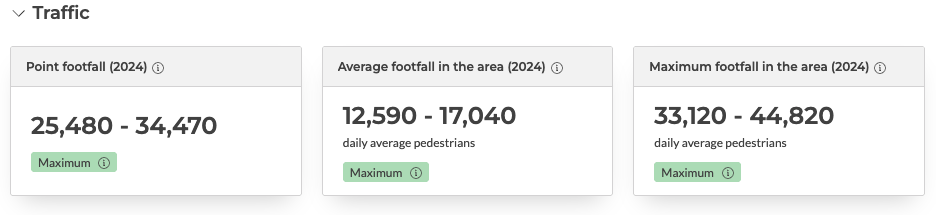
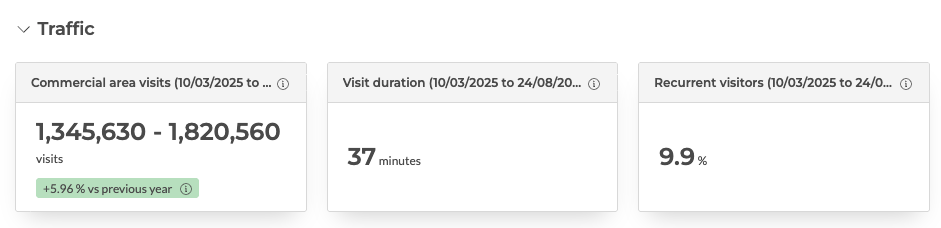
Add files via upload

diff --git a/lvmh_mock_up.html b/lvmh_mock_up.html
@@ -277,14 +277,14 @@
                             </div>
                             <div class="dropdown">
                                 <button class="dropdown-trigger" id="locationDropdown">
-                                    <span id="selectedLocation">El Corte Ingles Barcelona</span>
+                                    <span id="selectedLocation">El Corte Ingles Barcelona (address)</span>
                                     <svg width="15" height="15" viewBox="0 0 15 15" fill="none" xmlns="http://www.w3.org/2000/svg">
                                         <path d="M3.13523 6.15803C3.3241 5.95657 3.64052 5.94637 3.84197 6.13523L7.5 9.56464L11.158 6.13523C11.3595 5.94637 11.6759 5.95657 11.8648 6.15803C12.0536 6.35949 12.0434 6.67591 11.842 6.86477L7.84197 10.6148C7.64964 10.7951 7.35036 10.7951 7.15803 10.6148L3.15803 6.86477C2.95657 6.67591 2.94637 6.35949 3.13523 6.15803Z" fill="currentColor"/>
                                     </svg>
                                 </button>
                                 <div class="dropdown-content" id="locationDropdownContent">
-                                    <div class="dropdown-item" data-value="barcelona">El Corte Ingles Barcelona</div>
-                                    <div class="dropdown-item" data-value="cadiz">El Corte Ingles Cadiz</div>
+                                    <div class="dropdown-item" data-value="address">El Corte Ingles Barcelona (address)</div>
+                                    <div class="dropdown-item" data-value="commercial">El Corte Ingles Barcelona (commercial area)</div>
                                 </div>
                             </div>
                         </div>
@@ -295,13 +295,30 @@
 
                     <!-- Tab Contents -->
                     <div class="tab-content active" id="custom-report">
-                        <div class="scrollable-feed">
-                            <img src="./traffic-metrics.png" alt="Traffic Metrics" />
-                            <img src="./footfall-pattern.png" alt="Footfall Time Pattern" />
-                            <img src="./footfall-benchmark.png" alt="My Stores Footfall Benchmark" />
-                            <img src="./traffic-trends.png" alt="Traffic Trends" />
-                            <img src="./pedestrians-chart.png" alt="Daily Average Pedestrians" />
-                            <img src="./tourist-ranking.png" alt="Tourist Nationality Ranking" />
+                        <div class="scrollable-feed" id="imageContainer">
+                            <!-- Address Images (default) -->
+                            <div id="addressImages">
+                                <img src="./traffic-metrics.png" alt="Traffic Metrics" />
+                                <img src="./footfall-pattern.png" alt="Footfall Time Pattern" />
+                                <img src="./footfall-benchmark.png" alt="My Stores Footfall Benchmark" />
+                                <img src="./traffic-trends.png" alt="Traffic Trends" />
+                                <img src="./pedestrians-chart.png" alt="Daily Average Pedestrians" />
+                                <img src="./tourist-ranking.png" alt="Tourist Nationality Ranking" />
+                                <img src="./international_tourists_chart.png" alt="International Tourists Chart" />
+                                <img src="./images_commercial/population-pyramid.png" alt="Population Pyramid" />
+                            </div>
+                            <!-- Commercial Area Images (hidden by default) -->
+                            <div id="commercialImages" style="display: none;">
+                                <img src="./images_commercial/traffic-metrics.png" alt="Traffic Metrics" />
+                                <img src="./images_commercial/hourly-distribution.png" alt="Hourly Distribution" />
+                                <img src="./images_commercial/weekly-evolution.png" alt="Weekly Evolution" />
+                                <img src="./images_commercial/shared-visitors.png" alt="Shared Visitors" />
+                                <img src="./images_commercial/tourist-ranking.png" alt="Tourist Ranking" />
+                                <img src="./international_tourists_chart.png" alt="International Tourists Chart" />
+                                <img src="./images_commercial/demographics.png" alt="Demographics" />
+                                <img src="./images_commercial/population-pyramid.png" alt="Population Pyramid" />
+                                <img src="./images_commercial/socioeconomics.png" alt="Socioeconomics" />
+                            </div>
                         </div>
                     </div>
                     <div class="tab-content" id="summary">
@@ -417,8 +434,25 @@
             item.addEventListener('click', () => {
                 selectedLocation.textContent = item.textContent;
                 dropdownContent.classList.remove('show');
+                
+                // Update images based on selected location
+                updateImages(item.getAttribute('data-value'));
             });
         });
+
+        // Function to update images based on location
+        function updateImages(locationType) {
+            const addressImages = document.getElementById('addressImages');
+            const commercialImages = document.getElementById('commercialImages');
+            
+            if (locationType === 'commercial') {
+                addressImages.style.display = 'none';
+                commercialImages.style.display = 'block';
+            } else {
+                addressImages.style.display = 'block';
+                commercialImages.style.display = 'none';
+            }
+        }
 
         // Close dropdown when clicking outside
         document.addEventListener('click', (e) => {
